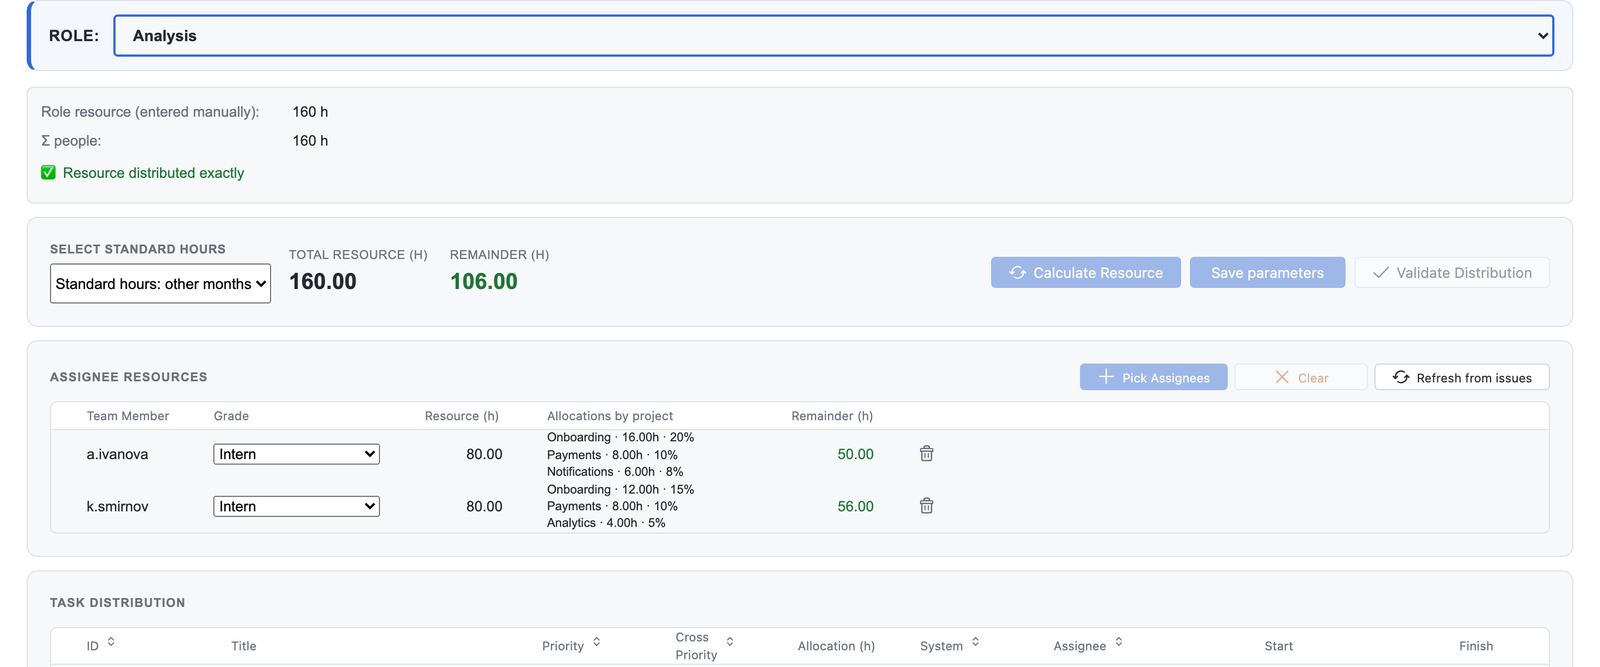
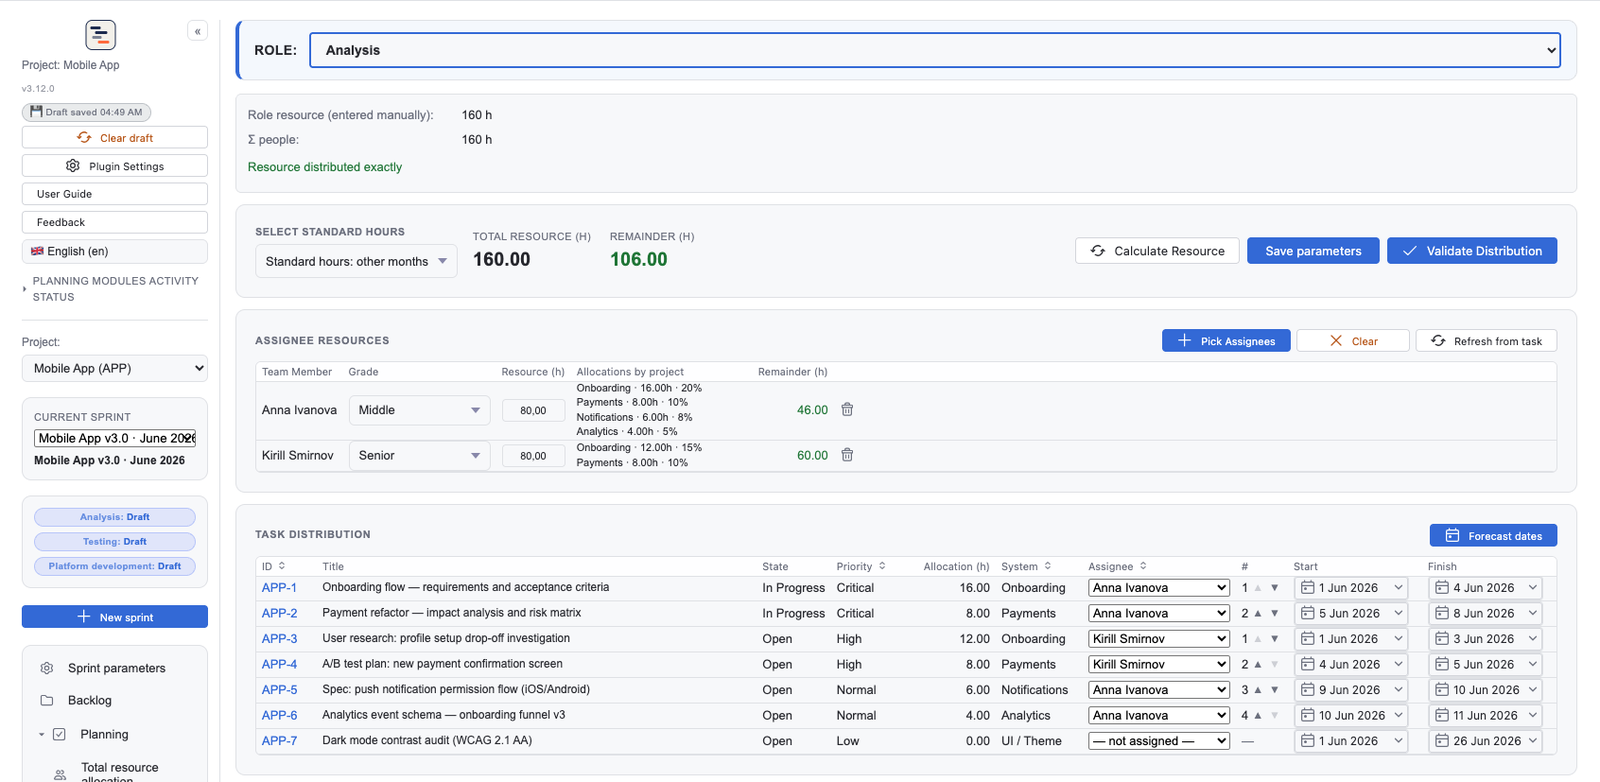
docs: refresh README screenshots with current v3.12.0 UI
Replace marketplace-era captures with fresh English screenshots of the
rail-and-pane dashboard: role composition with capacity remainders,
per-assignee distribution with grades, cross-project allocations and
forecast dates, and the per-role Gantt timeline.

diff --git a/Documentation/README.ru.md b/Documentation/README.ru.md
@@ -36,7 +36,7 @@ Gantt-таймлайн по роли, с привязкой к спринту и
 
 <p align="center">
   <img src="../assets/readme/shot-gantt.png" width="100%"
-       alt="Вид диаграммы Ганта: селектор текущего спринта со статус-чипами ролей и таймлайн задач с исполнителями по календарю спринта.">
+       alt="Вид диаграммы Ганта: селектор роли, масштаб день/неделя/месяц и таймлайн задач с исполнителями по календарю спринта.">
 </p>
 
 ## Что вы получаете

diff --git a/README.md b/README.md
@@ -36,7 +36,7 @@ Gantt timeline per role, sprint-aware, with per-task assignees:
 
 <p align="center">
   <img src="./assets/readme/shot-gantt.png" width="100%"
-       alt="Gantt chart view: current sprint selector with per-role status chips and a per-task timeline with assignees across the sprint calendar.">
+       alt="Gantt chart view: role selector, day/week/month scale, and a per-task timeline with assignees laid out across the sprint calendar.">
 </p>
 
 ## What you get
